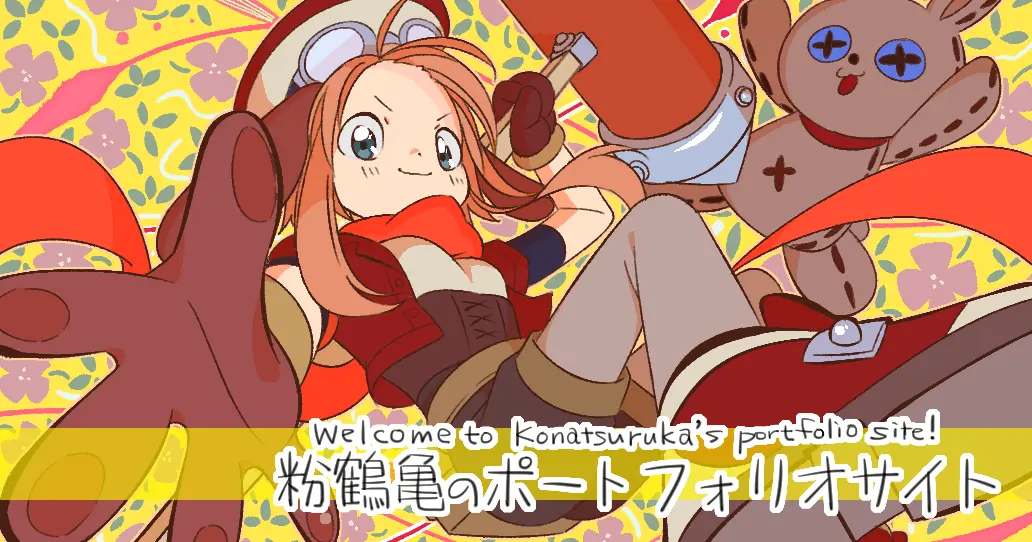
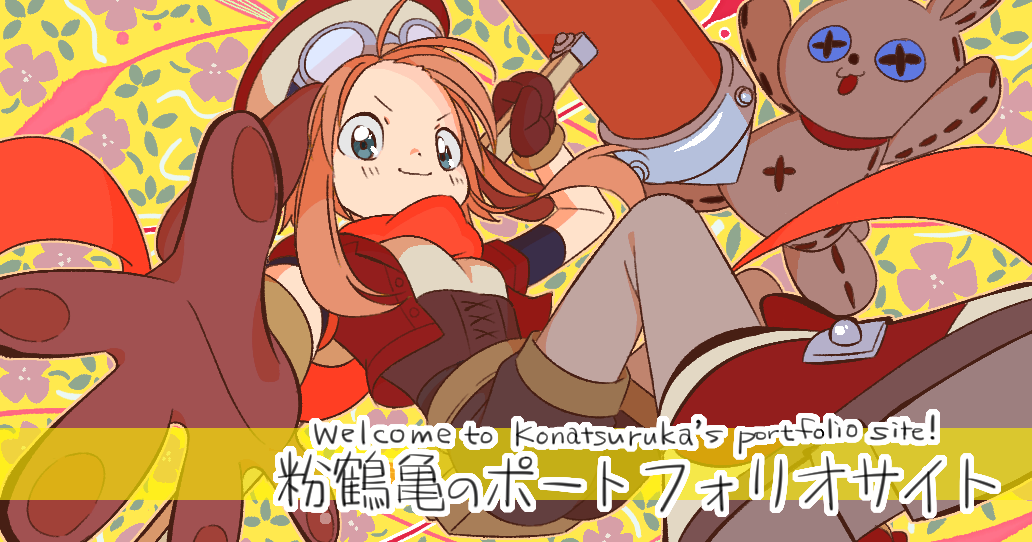
ヘッダ画像のクオリティのアップとスマホ表示時に軽い画像に変える

diff --git a/styles/Home.module.scss b/styles/Home.module.scss
@@ -38,6 +38,18 @@
     }
   }
 
+  .phoneHeader {
+    display: none;
+  }
+  @media (max-width: 768px) {
+    .desktopHeader {
+      display: inline;
+    }
+    .phoneHeader {
+      display: default;
+    }
+  }
+
   .mainHeader {
     margin-top: 60px; // ヘッダナビゲーションの高さ
     background-image: none;
@@ -55,6 +67,7 @@
         clip-path: inset(0 0 0 0);
         height: 100%;
       }
+
       img {
         position: fixed;
         top: 60px;
@@ -71,7 +84,7 @@
       height: 40vh;
       @media (max-width: 768px) {
           height: 20vh;
-        }
+      }
       display: flex;
       flex-direction: row;
       justify-content: center;
@@ -210,6 +223,9 @@
   text-stroke: 4px whitesmoke;
   paint-order: stroke;
   background-image: url("../public/header_gray.webp");
+  @media (max-width: 768px) {
+    background-image: url("../public/header_gray_phone.webp");
+  }
   background-size: cover;
   background-attachment: fixed;
   font-size: 30pt;
@@ -225,6 +241,9 @@
 
 #illustHeader {
   background-image: url("../public/header_nega.webp");
+  @media (max-width: 768px) {
+    background-image: url("../public/header_nega_phone.webp");
+  }
   background-size: cover;
   background-attachment: fixed;
   font-size: 30pt;

diff --git a/static-components/news.tsx b/static-components/news.tsx
@@ -74,12 +74,21 @@ const NewsSection = ({
                   top: 60 + realHeaderHeight - scroll.y,
                   objectPosition: `0px ${scroll.y - realHeaderHeight}px`,
                 }}
-                className={
+                className={`${
                   headerOverflow
                     ? styles.newsBackgroundWide
                     : styles.newsBackgroundNormal
-                }
+                } ${styles.desktopHeader}`}
                 src={"./header_nega.webp"}
+                alt={""}
+              />
+              <img
+                style={{
+                  top: 60 + realHeaderHeight - scroll.y,
+                  objectPosition: `0px ${scroll.y - realHeaderHeight}px`,
+                }}
+                className={`${styles.newsBackgroundNormal} ${styles.phoneHeader}`}
+                src={"./header_nega_phone.webp"}
                 alt={""}
               />
             </div>

diff --git a/pages/index.tsx b/pages/index.tsx
@@ -242,7 +242,16 @@ const Home = ({
           <div className={styles.mainHeaderPhone}>
             {/*  ヘッダ画像はずっと画面の中で固定されている。その画像をスクロールの上部でのみ見えるようにするためのトリック */}
             <div className={styles.mainHeaderPhoneClip}>
-              <img src={"./header.webp"} alt="" />
+              <img
+                className={styles.desktopHeader}
+                src={"./header.webp"}
+                alt=""
+              />
+              <img
+                className={styles.phoneHeader}
+                src={"./header_phone.webp"}
+                alt=""
+              />
             </div>
           </div>
         </div>
